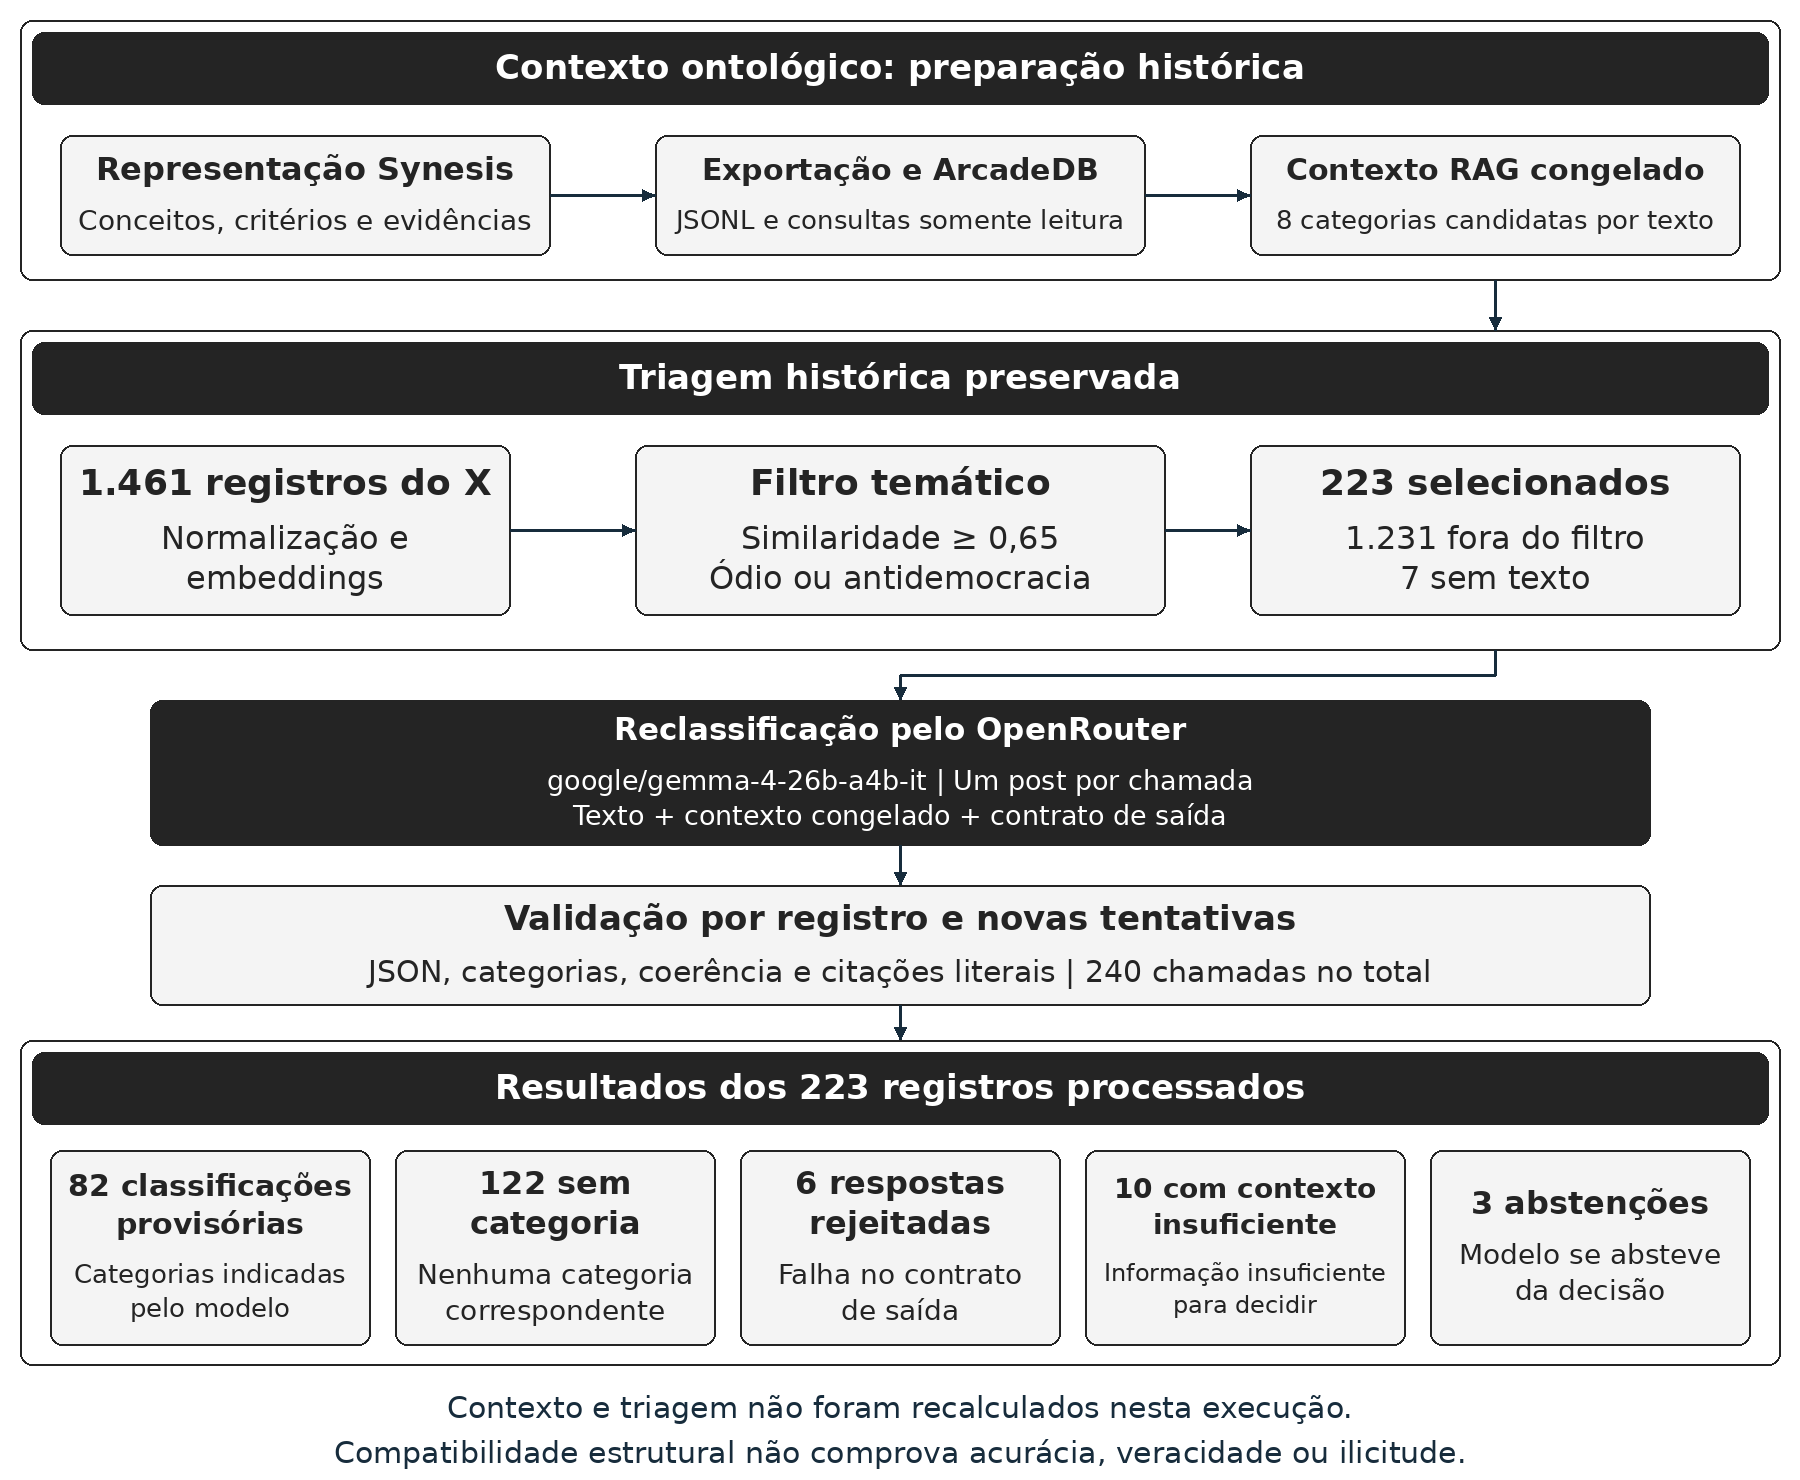
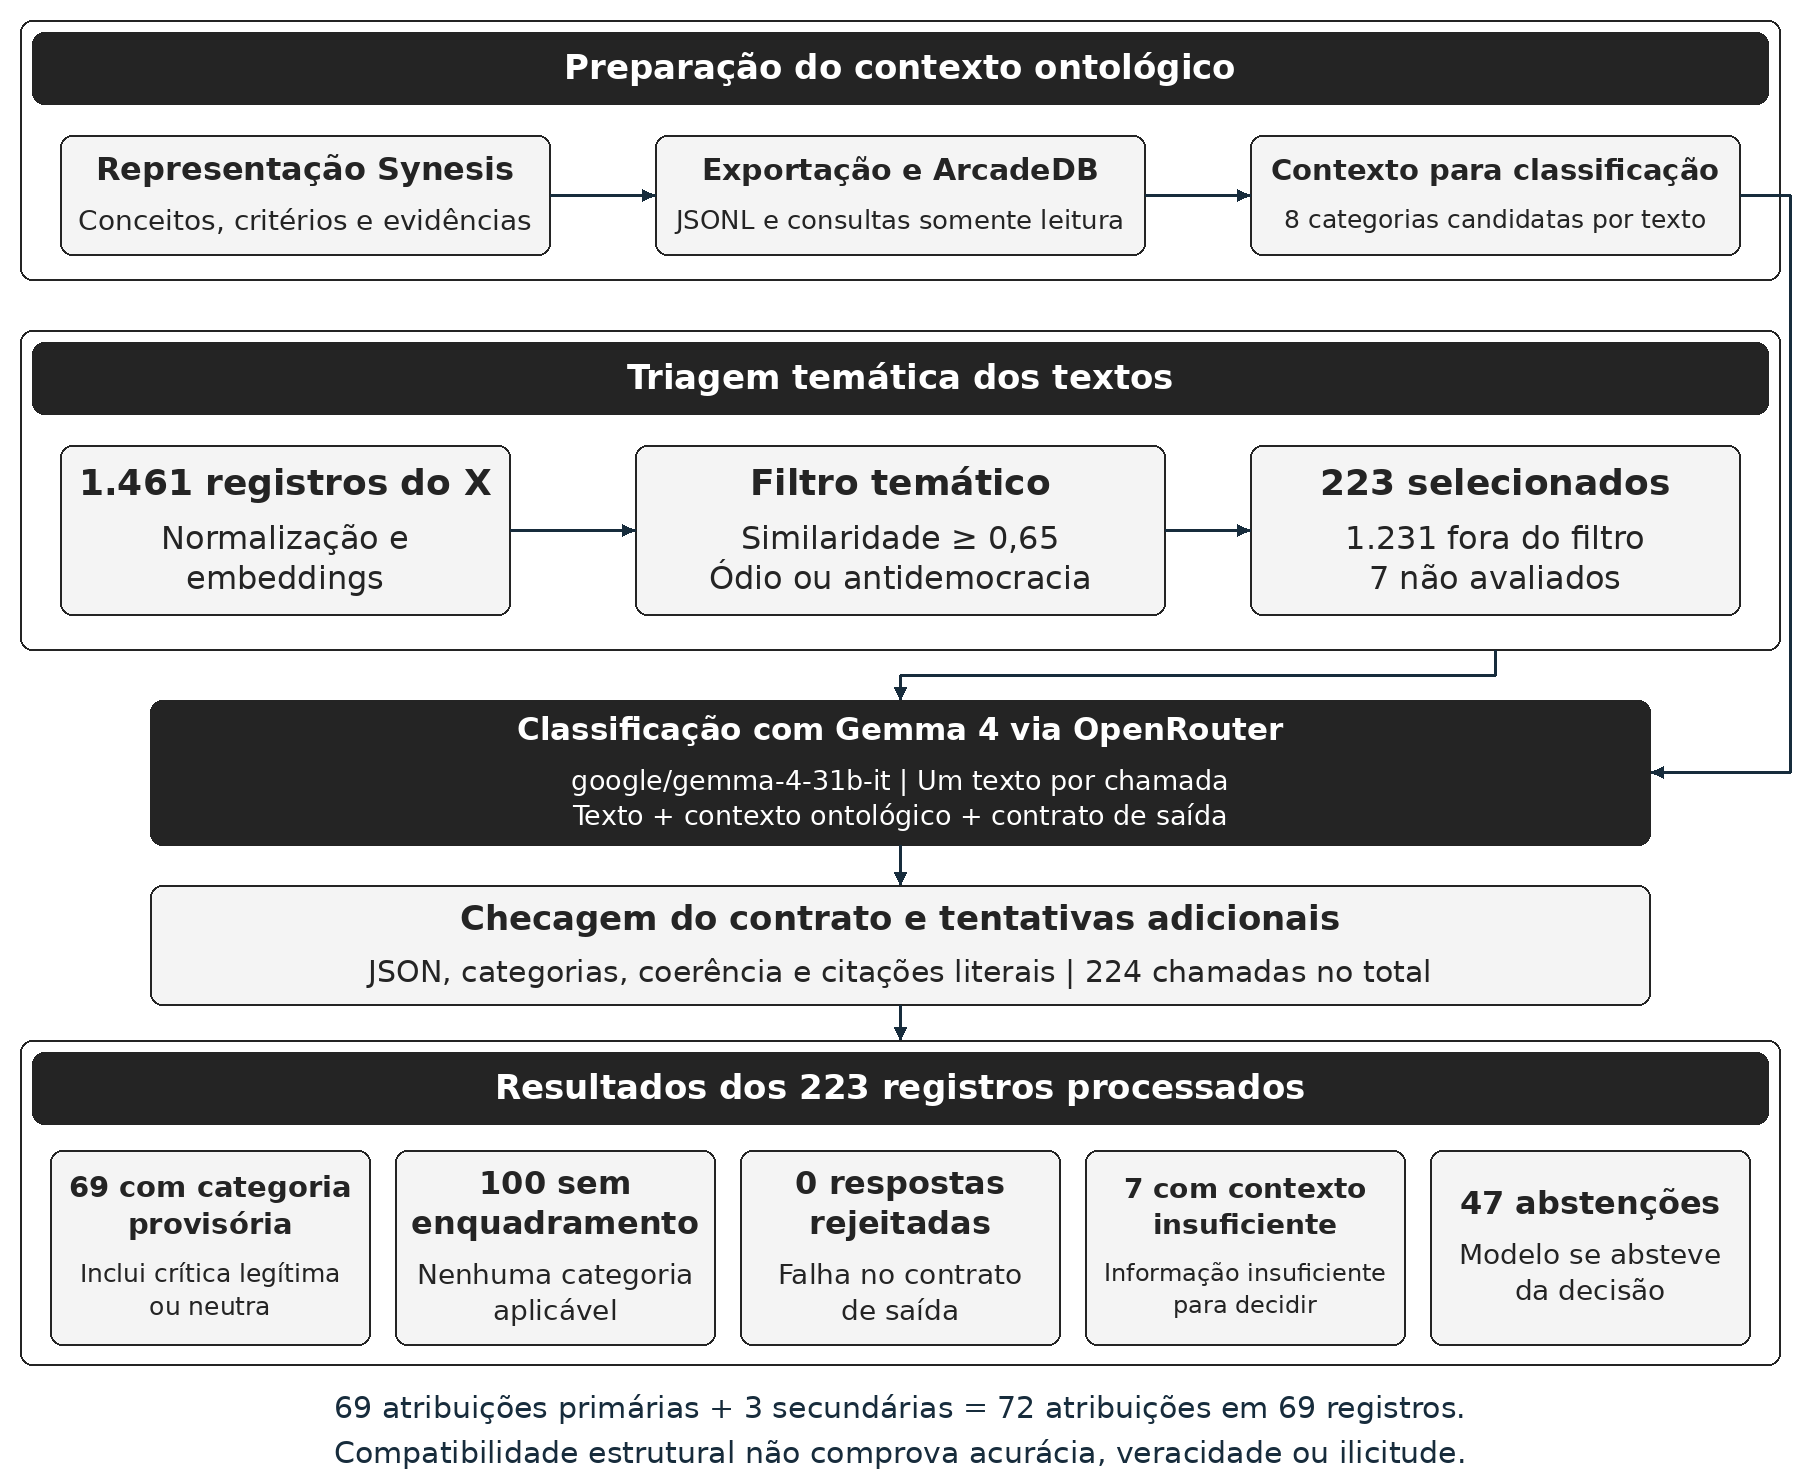
Substitui Gemma por 31B e atualiza resultados agregados

diff --git a/scripts/reclassificar.py b/scripts/reclassificar.py
@@ -14,7 +14,7 @@ import urllib.request
 import urllib.error
 
 ROOT = Path(__file__).resolve().parents[1]
-MODEL = 'google/gemma-4-26b-a4b-it'
+MODEL = 'google/gemma-4-31b-it'
 API = 'https://openrouter.ai/api/v1'
 STATUSES = {'classified_provisional', 'no_matching_category', 'insufficient_context', 'abstained'}
 SUPERS = {'discurso_de_odio_eleitoral', 'discursos_antidemocraticos'}

diff --git a/README.md b/README.md
@@ -1,6 +1,6 @@
 # Classificação textual de publicações do X
 
-Cópia pública desidratada do executor de pesquisa. Compartilha somente os IDs nativos dos posts: 1.461 na base e 223 na seleção histórica. Não contém textos das publicações, autoria, triagem detalhada, pacotes RAG, respostas de modelo ou credenciais. Não há liberação jurídica implícita para os materiais de terceiros usados no projeto original. Repositório público não significa corpus textual com licença aberta.
+Cópia pública desidratada do executor de pesquisa, com o modelo `google/gemma-4-31b-it` via OpenRouter. O modelo foi substituído por pedido de Diego, mantendo dados, contexto, prompt, contrato e parâmetros. Compartilha somente os IDs nativos dos posts: 1.461 na base e 223 na seleção histórica. Não contém textos das publicações, autoria, triagem detalhada, pacotes RAG, respostas de modelo ou credenciais. Não há liberação jurídica implícita para os materiais de terceiros usados no projeto original. Repositório público não significa corpus textual com licença aberta.
 
 ## Conteúdo
 
@@ -42,7 +42,9 @@ O código preserva a lógica e contrato do executor original, que neste pacote n
 
 ## Resultados de origem, agregados
 
-A run `20261006T121012788430Z` tinha 223 selecionados: 82 classificações provisórias, 122 sem categoria, 6 respostas rejeitadas pelo contrato, 10 decisões de contexto insuficiente e 3 abstenções. Foram 240 tentativas de chamada, todas com o modelo solicitado na auditoria local. Os resultados e rótulos associados a indivíduos foram deliberadamente excluídos; nenhuma categoria sensível é publicada por ID. Os totais são apenas um registro agregado da run original, não resultado reproduzido por esta cópia.
+A execução vigente de origem usa `google/gemma-4-31b-it` via OpenRouter, mantendo insumos, contexto, prompt, contrato e parâmetros anteriores. A run anterior `20261006T121012788430Z`, com `google/gemma-4-26b-a4b-it`, permanece preservada na origem, separada da nova execução.
+
+A run `20261007T223819272404Z` foi concluída e auditada com 223 selecionados: 69 classificações provisórias, 100 sem categoria, nenhuma resposta rejeitada ao final pelo contrato, sete decisões de contexto insuficiente e 47 abstenções. Foram 224 tentativas de chamada, todas com o modelo solicitado na auditoria local. Os 69 registros classificados somam 69 atribuições primárias e três secundárias, totalizando 72 atribuições. São 66 registros com uma categoria e três com duas. Os resultados e rótulos associados a indivíduos foram deliberadamente excluídos; nenhuma categoria sensível é publicada por ID. Os totais são apenas um registro agregado da run de origem, não resultado reproduzido por esta cópia. A Figura 3 apresenta essa execução.
 
 ## Licença e citação
 
